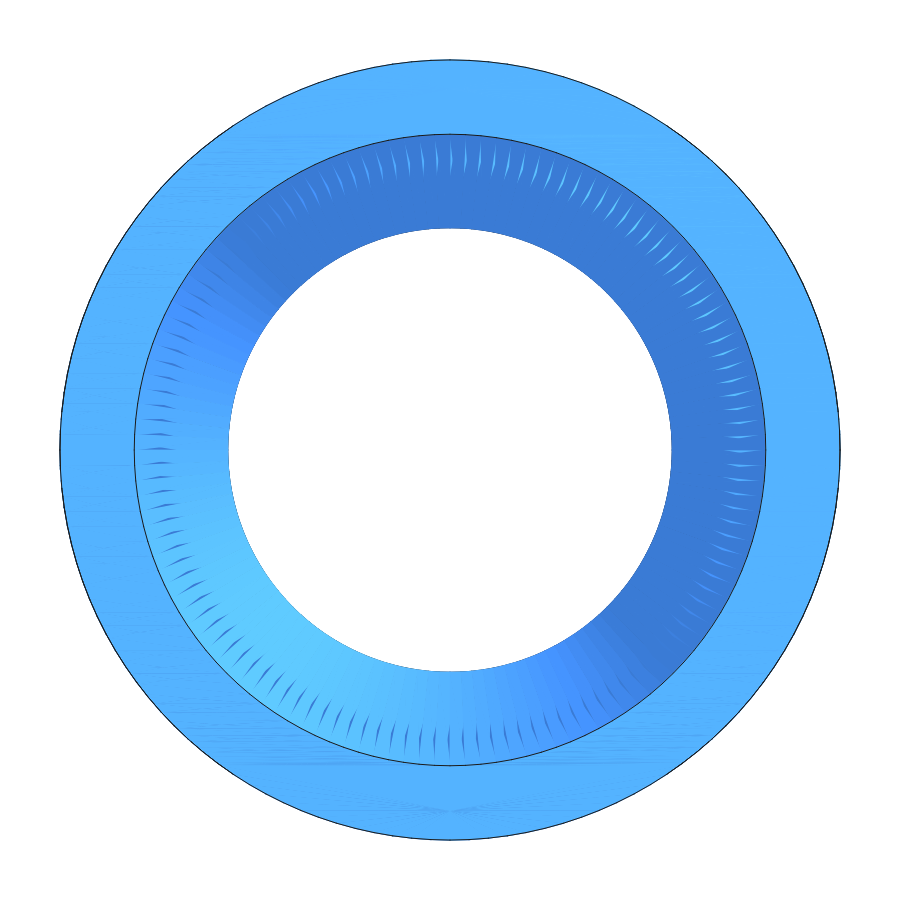
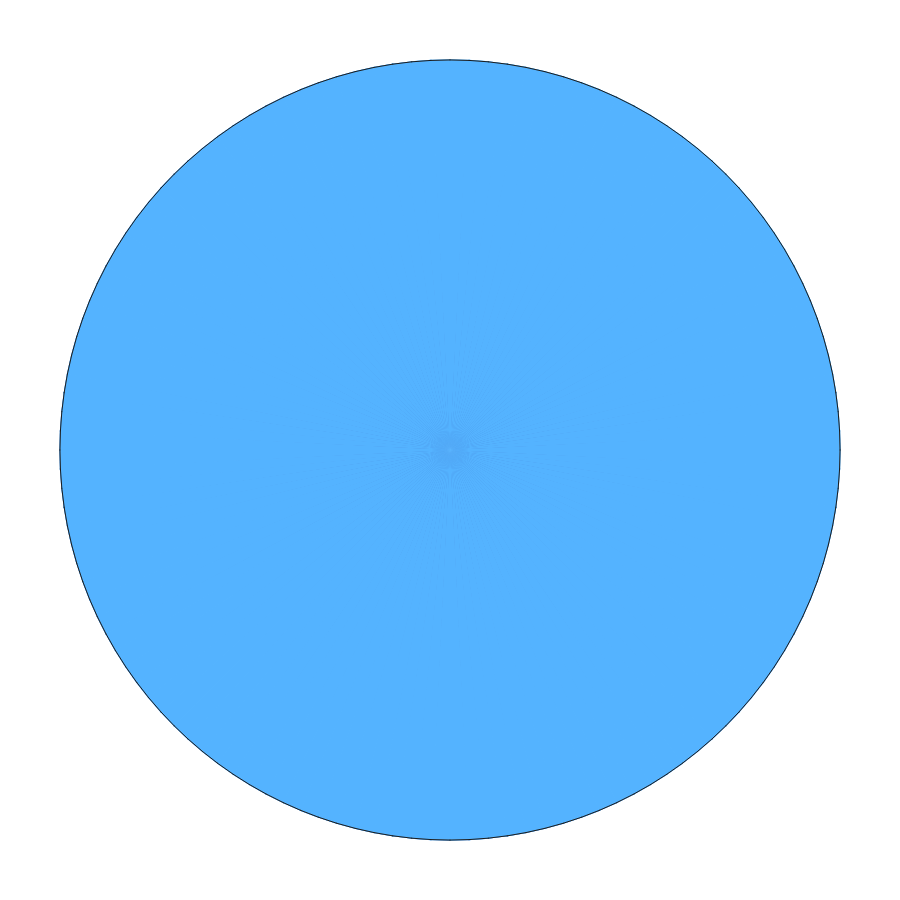
Give bottom-support a uniform 2mm wall on every side, not just radially
The previous version subtracted a 51mm-diameter cylinder through the
full 57mm height, giving a 6mm radial wall but leaving both ends fully
open. Per spec, the cutout is now centered and both 4mm smaller in
diameter and height than the outer cylinder (59mm dia x 53mm tall) --
2mm short of the outer surface on every side, so the wall thickness is
a uniform 2mm radially and at the top/bottom caps, making this a closed
canister instead of an open pipe.

Verified with probe cylinders/boxes: the radial wall boundary sits
exactly at radius 29.5mm (59mm cutout), and the top/bottom caps are
confirmed solid from z=26.6 to the outer surface while the cavity is
open up to z=26.4 -- both matching the expected 2mm margins. Added a
cross-section render (a thin slab through the axis) showing the
resulting uniform "picture frame" wall profile.

Claude-Session: https://claude.ai/code/session_01Fa3HiJ5gTjHD47mM5HpLQK

diff --git a/designs/totemik/render-png.js b/designs/totemik/render-png.js
@@ -154,7 +154,13 @@ for (const [file, cameraPosition] of Object.entries(micHolderViews)) {
 }
 
 // --- bottom-support.stl ---
-// Hollow cylinder (pipe), unrelated to the other parts.
+// Closed hollow cylinder (canister), unrelated to the other parts. Fully
+// enclosed (2mm wall on every side, including the top/bottom caps) so
+// the outer iso/top views alone don't show the hollow interior -- a thin
+// slab through the axis is also rendered for that; a cylinder sliced
+// through its own axis shows a rectangle (not a circle), so this comes
+// out as a "picture frame" -- the outer 63x57mm rectangle with the inner
+// 59x53mm cavity inset exactly 2mm on every side.
 const bottomSupportStlData = fs.readFileSync(path.join(__dirname, 'bottom-support.stl'))
 const bottomSupportViews = {
   'bottom-support-iso.png': [70, -70, 50],
@@ -165,3 +171,17 @@ for (const [file, cameraPosition] of Object.entries(bottomSupportViews)) {
   fs.writeFileSync(path.join(__dirname, file), png)
   console.log('Wrote', file)
 }
+
+const { main: bottomSupportMain } = require('./bottom-support.jscad')
+const bottomSupportSliced = intersect(bottomSupportMain(), cuboid({ size: [70, 4, 70] }))
+const bottomSupportSlicedPng = stl2png(toBuffer(bottomSupportSliced), {
+  width: 900,
+  height: 700,
+  backgroundColor: 0xffffff,
+  cameraPosition: [10, -250, 5],
+  materials: [makeStandardMaterial(1, 0x3a7bd5)],
+  edgeMaterials: [makeEdgeMaterial(1.5, 0x000000)],
+  lights: [makeAmbientLight(0xffffff, 0.7), makeDirectionalLight(0, -1, 0, 0xffffff, 0.7)]
+})
+fs.writeFileSync(path.join(__dirname, 'bottom-support-cross-section.png'), bottomSupportSlicedPng)
+console.log('Wrote bottom-support-cross-section.png')

diff --git a/designs/totemik/README.md b/designs/totemik/README.md
@@ -17,8 +17,8 @@ Nine related explorations for the Totemik project:
   dimensions to the other explorations.
 - **Mic Holder**: an open-bottom tray for a microphone, also unrelated in
   dimensions to the other explorations.
-- **Bottom Support**: a simple hollow cylinder (pipe), also unrelated in
-  dimensions to the other explorations.
+- **Bottom Support**: a closed hollow cylinder (canister) with a uniform
+  2mm wall, also unrelated in dimensions to the other explorations.
 
 ## Ring
 
@@ -533,18 +533,22 @@ other parts in this folder.
 
 ### Overview
 
-Hollow cylinder (pipe). An earlier version of this part was a
+Closed hollow cylinder (canister). An earlier version of this part was a
 half-hollow torus (donut), but that was too CPU-intensive to generate,
-so it was replaced with this much simpler tube: an outer cylinder with a
-same-height inner cylinder subtracted out of it. A separate exploration,
-unrelated in dimensions to the other parts in this folder.
+so it was replaced with an outer cylinder with a smaller, shorter
+cylinder subtracted from its middle — centered, so it stops short of the
+top and bottom too, giving a uniform wall thickness on every side
+(radial *and* top/bottom caps) instead of an open-ended pipe. A separate
+exploration, unrelated in dimensions to the other parts in this folder.
 
 ### Geometry
 
 - Outer diameter: `63 mm`
 - Height: `57 mm`
-- Inner diameter: `51 mm` (subtracted through the full height) — `6 mm`
-  wall thickness
+- Wall thickness: `2 mm`, uniform on every side
+- Cutout (centered): `59 mm` diameter (`63 - 2×2`), `53 mm` tall
+  (`57 - 2×2`) — leaves exactly `2 mm` of material radially and `2 mm`
+  caps at both the top and bottom
 
 ### Source
 
@@ -556,8 +560,14 @@ unrelated in dimensions to the other parts in this folder.
 - STL: [`bottom-support.stl`](./bottom-support.stl)
 - PNG preview (isometric): [`bottom-support-iso.png`](./bottom-support-iso.png)
 - PNG preview (top): [`bottom-support-top.png`](./bottom-support-top.png)
+- PNG preview (cross-section): [`bottom-support-cross-section.png`](./bottom-support-cross-section.png) —
+  a thin slab through the axis; since slicing a cylinder through its own
+  axis gives a rectangle (not a circle), this shows as a "picture frame":
+  the outer `63x57mm` rectangle with the inner `59x53mm` cavity inset
+  exactly `2mm` on every side
 
 ### Preview
 
 ![Bottom support isometric](./bottom-support-iso.png)
 ![Bottom support top view](./bottom-support-top.png)
+![Bottom support cross-section](./bottom-support-cross-section.png)
